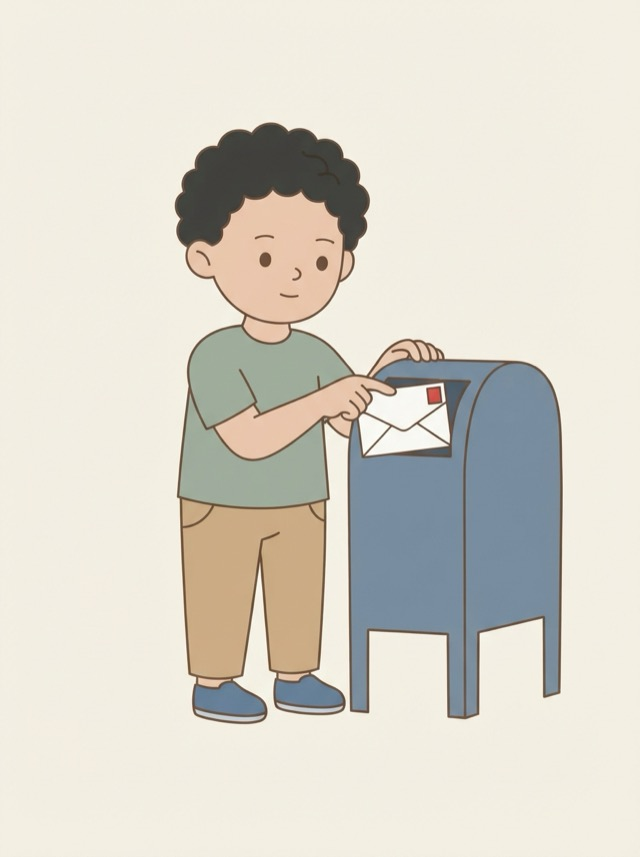
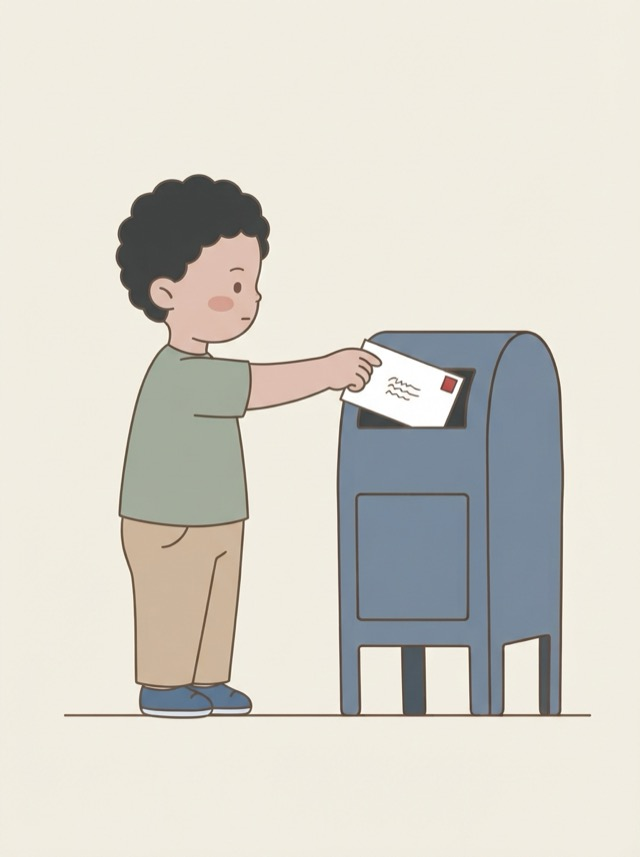
Fix the letter stamp, enlarge pictures and soften their edges
- Mailing a letter: cards 3, 4 and 5 regenerated so the stamp sits top
  right on the address side of the envelope, not on the flap. Card 4 now
  shows the child turned to the mailbox, pushing the envelope in.
- Whole-picture cards looked small with a faint rectangle around them.
  Picture edges now fade into the card, and a new optional story.zoom
  enlarges sets that have margin to spare (six of the eight paper sets).
  One value per set keeps scale constant across a story's cards.
- Prompt notes, README and CLAUDE.md updated.

Changed region(s): [[0.125, 0.1214, 0.9062, 0.8495], [0.875, 0.4854, 0.9062, 0.6068], [0.875, 0.6371, 0.9062, 0.6674]]

diff --git a/index.html b/index.html
@@ -247,7 +247,17 @@
     font-size: calc(var(--cw) * 0.42); line-height: 1;
   }
   .card .art img { width: 100%; height: 100%; object-fit: cover; pointer-events: none; }
-  .card.whole .art img { object-fit: contain; }
+  /* Sets with a paper colour: show the whole picture, as large as the story's
+     zoom allows, and fade its edges into the card so no rectangle shows. */
+  .card.whole .art { overflow: hidden; }
+  .card.whole .art img {
+    width: auto; max-width: 100%; object-fit: contain; scale: var(--zoom, 1);
+    -webkit-mask-image: linear-gradient(to right, transparent, #000 5%, #000 95%, transparent),
+      linear-gradient(to bottom, transparent, #000 4%, #000 96%, transparent);
+    mask-image: linear-gradient(to right, transparent, #000 5%, #000 95%, transparent),
+      linear-gradient(to bottom, transparent, #000 4%, #000 96%, transparent);
+    -webkit-mask-composite: source-in; mask-composite: intersect;
+  }
   /* Room for two lines on every card, so pictures sit at the same height
      whether a caption wraps or not. */
   .card .cap {
@@ -499,7 +509,7 @@
 
 // Built-in copy of stories.json, used only when the file can't be fetched
 // (browsers block fetch when index.html is opened straight from disk).
-const SEED = [{"id": "brushing-teeth", "title": "Brushing teeth", "gradeBand": "K-2", "reversible": false, "cover": 2, "cursor": "🦷", "grammar": ["character", "setting", "action", "ending"], "styles": ["cartoon", "emoji", "text"], "paper": {"cartoon": "#f1ede1"}, "cards": [{"text": "Put toothpaste on the brush", "emoji": "🪥", "img": "01.jpg"}, {"text": "Brush all your teeth", "emoji": "😬", "img": "02.jpg"}, {"text": "Rinse with water", "emoji": "🚰", "img": "03.jpg"}]}, {"id": "planting-a-seed", "title": "Planting a seed", "gradeBand": "K-2", "reversible": false, "cursor": "🪴", "grammar": ["character", "setting", "action", "ending"], "styles": ["cartoon", "emoji", "text"], "paper": {"cartoon": "#f1ede1"}, "cards": [{"text": "Dig a hole", "emoji": "🕳", "img": "01.jpg"}, {"text": "Drop in the seed", "emoji": "🌰", "img": "02.jpg"}, {"text": "Water the soil", "emoji": "💧", "img": "03.jpg"}, {"text": "A sprout comes up", "emoji": "🌱", "img": "04.jpg"}]}, {"id": "making-a-sandwich", "title": "Making a sandwich", "gradeBand": "3-5", "reversible": false, "cover": 3, "cursor": "🍽", "grammar": ["character", "action", "ending"], "styles": ["cartoon", "emoji", "text"], "paper": {"cartoon": "#f1ede1"}, "cards": [{"text": "Lay out two slices of bread", "emoji": "🍞", "img": "01.jpg"}, {"text": "Add cheese and lettuce", "emoji": "🧀", "img": "02.jpg"}, {"text": "Put the top slice on", "emoji": "🥪", "img": "03.jpg"}, {"text": "Eat the sandwich", "emoji": "😋", "img": "04.jpg"}]}, {"id": "mailing-a-letter", "title": "Mailing a letter", "gradeBand": "3-5", "reversible": false, "cover": 4, "cursor": "💌", "grammar": ["character", "setting", "action", "ending"], "styles": ["cartoon", "emoji", "text"], "paper": {"cartoon": "#f1ede1"}, "cards": [{"text": "Write the letter", "emoji": "✍", "img": "01.jpg"}, {"text": "Seal it in an envelope", "emoji": "✉", "img": "02.jpg"}, {"text": "Stick on a stamp", "emoji": "🏷", "img": "03.jpg"}, {"text": "Drop it in the mailbox", "emoji": "📮", "img": "04.jpg"}, {"text": "The letter arrives", "emoji": "📬", "img": "05.jpg"}]}, {"id": "kite-in-the-tree", "title": "The kite in the tree", "gradeBand": "K-5", "reversible": false, "cover": 2, "cursor": "🍃", "grammar": ["character", "setting", "problem", "feeling", "action", "ending"], "styles": ["cartoon", "emoji", "text"], "paper": {"cartoon": "#f1ede1"}, "cards": [{"text": "Flying a kite in the park", "emoji": "🪁", "img": "01.jpg"}, {"text": "The kite gets stuck in the tree", "emoji": "🌳", "img": "02.jpg"}, {"text": "Feeling sad about the kite", "emoji": "😢", "img": "03.jpg"}, {"text": "Grandparent reaches it with a rake", "emoji": "🧓", "img": "04.jpg"}, {"text": "Happy to have the kite back", "emoji": "😊", "img": "05.jpg"}]}, {"id": "puffer-fish", "title": "Puffer fish", "gradeBand": "K-2", "reversible": true, "endLabels": ["calm", "puffed"], "cursor": "💧", "grammar": ["character", "action", "ending"], "styles": ["cartoon", "emoji", "text"], "paper": {"cartoon": "#f7f2e7"}, "cards": [{"text": "Small and calm", "emoji": "🐟", "img": "01.jpg"}, {"text": "Half puffed", "emoji": "🐠", "img": "02.jpg"}, {"text": "Fully puffed, spikes out", "emoji": "🐡", "img": "03.jpg"}]}, {"id": "kettle", "title": "Kettle", "gradeBand": "3-5", "reversible": true, "endLabels": ["cold", "boiling"], "cursor": "🔥", "grammar": ["setting", "action", "ending"], "styles": ["cartoon", "emoji", "text"], "paper": {"cartoon": "#f1ede1"}, "cards": [{"text": "Cold water, no bubbles", "emoji": "🧊", "img": "01.jpg"}, {"text": "Warm water, tiny bubbles", "emoji": "🌡", "img": "02.jpg"}, {"text": "Hot water, lots of bubbles", "emoji": "♨", "img": "03.jpg"}, {"text": "Boiling, steam whistling out", "emoji": "💨", "img": "04.jpg"}]}, {"id": "storm", "title": "Storm", "gradeBand": "3-5", "reversible": true, "endLabels": ["clear", "storm"], "cursor": "☂", "grammar": ["setting", "action", "ending"], "styles": ["cartoon", "emoji", "text"], "cards": [{"text": "Clear blue sky", "emoji": "☀", "img": "01.jpg"}, {"text": "A few clouds", "emoji": "🌤", "img": "02.jpg"}, {"text": "Gray clouds cover the sky", "emoji": "☁", "img": "03.jpg"}, {"text": "Rain is falling", "emoji": "🌧", "img": "04.jpg"}, {"text": "Thunder and lightning", "emoji": "⛈", "img": "05.jpg"}]}, {"id": "voice-volume", "title": "Voice volume", "gradeBand": "K-8", "reversible": true, "endLabels": ["silent", "yelling"], "cover": 4, "cursor": "🎤", "grammar": ["character", "action", "ending"], "styles": ["cartoon", "emoji", "text"], "paper": {"cartoon": "#f1ede1"}, "cards": [{"text": "Silent, no sound", "emoji": "🔇", "img": "01.jpg"}, {"text": "Whisper", "emoji": "🤫", "img": "02.jpg"}, {"text": "Talking voice", "emoji": "🗣", "img": "03.jpg"}, {"text": "Loud voice", "emoji": "📣", "img": "04.jpg"}, {"text": "Yelling voice", "emoji": "🔊", "img": "05.jpg"}]}, {"id": "small-to-large", "title": "Small to large", "gradeBand": "K-2", "reversible": true, "endLabels": ["small", "large"], "grammar": [], "styles": ["shape", "text"], "paper": {"shape": "#fdf9f1"}, "cards": [{"text": "Tiny", "img": "01.svg"}, {"text": "Small", "img": "02.svg"}, {"text": "Big", "img": "03.svg"}, {"text": "Very big", "img": "04.svg"}]}, {"id": "light-to-dark", "title": "Light to dark", "gradeBand": "K-2", "reversible": true, "endLabels": ["light", "dark"], "grammar": [], "styles": ["shape", "text"], "paper": {"shape": "#fdf9f1"}, "cards": [{"text": "Very light", "img": "01.svg"}, {"text": "Light", "img": "02.svg"}, {"text": "Dark", "img": "03.svg"}, {"text": "Very dark", "img": "04.svg"}]}, {"id": "low-to-high", "title": "Low to high", "gradeBand": "K-2", "reversible": true, "endLabels": ["low", "high"], "grammar": [], "styles": ["shape", "text"], "paper": {"shape": "#fdf9f1"}, "cards": [{"text": "Low", "img": "01.svg"}, {"text": "In the middle", "img": "02.svg"}, {"text": "High", "img": "03.svg"}]}, {"id": "filling-up", "title": "Filling up", "gradeBand": "K-2", "reversible": true, "endLabels": ["empty", "full"], "grammar": [], "styles": ["shape", "text"], "paper": {"shape": "#fdf9f1"}, "cards": [{"text": "None filled", "img": "01.svg"}, {"text": "One filled", "img": "02.svg"}, {"text": "Two filled", "img": "03.svg"}, {"text": "Three filled", "img": "04.svg"}, {"text": "All filled", "img": "05.svg"}]}, {"id": "thin-to-thick", "title": "Thin to thick", "gradeBand": "K-2", "reversible": true, "endLabels": ["thin", "thick"], "grammar": [], "styles": ["shape", "text"], "paper": {"shape": "#fdf9f1"}, "cards": [{"text": "Very thin", "img": "01.svg"}, {"text": "Thin", "img": "02.svg"}, {"text": "Thick", "img": "03.svg"}, {"text": "Very thick", "img": "04.svg"}]}, {"id": "few-to-many", "title": "Few to many", "gradeBand": "K-2", "reversible": true, "endLabels": ["few", "many"], "grammar": [], "styles": ["shape", "text"], "paper": {"shape": "#fdf9f1"}, "cards": [{"text": "One dot", "img": "01.svg"}, {"text": "Three dots", "img": "02.svg"}, {"text": "Six dots", "img": "03.svg"}, {"text": "Ten dots", "img": "04.svg"}]}, {"id": "left-to-right", "title": "Left to right", "gradeBand": "K-2", "reversible": true, "endLabels": ["left", "right"], "grammar": [], "styles": ["shape", "text"], "paper": {"shape": "#fdf9f1"}, "cards": [{"text": "On the left", "img": "01.svg"}, {"text": "In the middle", "img": "02.svg"}, {"text": "On the right", "img": "03.svg"}]}, {"id": "short-to-tall", "title": "Short to tall", "gradeBand": "K-2", "reversible": true, "endLabels": ["short", "tall"], "grammar": [], "styles": ["shape", "text"], "paper": {"shape": "#fdf9f1"}, "cards": [{"text": "Very short", "img": "01.svg"}, {"text": "Short", "img": "02.svg"}, {"text": "Tall", "img": "03.svg"}, {"text": "Very tall", "img": "04.svg"}]}];// @seed
+const SEED = [{"id": "brushing-teeth", "title": "Brushing teeth", "gradeBand": "K-2", "reversible": false, "cover": 2, "cursor": "🦷", "grammar": ["character", "setting", "action", "ending"], "styles": ["cartoon", "emoji", "text"], "paper": {"cartoon": "#f1ede1"}, "zoom": {"cartoon": 1.25}, "cards": [{"text": "Put toothpaste on the brush", "emoji": "🪥", "img": "01.jpg"}, {"text": "Brush all your teeth", "emoji": "😬", "img": "02.jpg"}, {"text": "Rinse with water", "emoji": "🚰", "img": "03.jpg"}]}, {"id": "planting-a-seed", "title": "Planting a seed", "gradeBand": "K-2", "reversible": false, "cursor": "🪴", "grammar": ["character", "setting", "action", "ending"], "styles": ["cartoon", "emoji", "text"], "paper": {"cartoon": "#f1ede1"}, "zoom": {"cartoon": 1.3}, "cards": [{"text": "Dig a hole", "emoji": "🕳", "img": "01.jpg"}, {"text": "Drop in the seed", "emoji": "🌰", "img": "02.jpg"}, {"text": "Water the soil", "emoji": "💧", "img": "03.jpg"}, {"text": "A sprout comes up", "emoji": "🌱", "img": "04.jpg"}]}, {"id": "making-a-sandwich", "title": "Making a sandwich", "gradeBand": "3-5", "reversible": false, "cover": 3, "cursor": "🍽", "grammar": ["character", "action", "ending"], "styles": ["cartoon", "emoji", "text"], "paper": {"cartoon": "#f1ede1"}, "zoom": {"cartoon": 1.4}, "cards": [{"text": "Lay out two slices of bread", "emoji": "🍞", "img": "01.jpg"}, {"text": "Add cheese and lettuce", "emoji": "🧀", "img": "02.jpg"}, {"text": "Put the top slice on", "emoji": "🥪", "img": "03.jpg"}, {"text": "Eat the sandwich", "emoji": "😋", "img": "04.jpg"}]}, {"id": "mailing-a-letter", "title": "Mailing a letter", "gradeBand": "3-5", "reversible": false, "cover": 4, "cursor": "💌", "grammar": ["character", "setting", "action", "ending"], "styles": ["cartoon", "emoji", "text"], "paper": {"cartoon": "#f1ede1"}, "cards": [{"text": "Write the letter", "emoji": "✍", "img": "01.jpg"}, {"text": "Seal it in an envelope", "emoji": "✉", "img": "02.jpg"}, {"text": "Stick on a stamp", "emoji": "🏷", "img": "03.jpg"}, {"text": "Drop it in the mailbox", "emoji": "📮", "img": "04.jpg"}, {"text": "The letter arrives", "emoji": "📬", "img": "05.jpg"}]}, {"id": "kite-in-the-tree", "title": "The kite in the tree", "gradeBand": "K-5", "reversible": false, "cover": 2, "cursor": "🍃", "grammar": ["character", "setting", "problem", "feeling", "action", "ending"], "styles": ["cartoon", "emoji", "text"], "paper": {"cartoon": "#f1ede1"}, "cards": [{"text": "Flying a kite in the park", "emoji": "🪁", "img": "01.jpg"}, {"text": "The kite gets stuck in the tree", "emoji": "🌳", "img": "02.jpg"}, {"text": "Feeling sad about the kite", "emoji": "😢", "img": "03.jpg"}, {"text": "Grandparent reaches it with a rake", "emoji": "🧓", "img": "04.jpg"}, {"text": "Happy to have the kite back", "emoji": "😊", "img": "05.jpg"}]}, {"id": "puffer-fish", "title": "Puffer fish", "gradeBand": "K-2", "reversible": true, "endLabels": ["calm", "puffed"], "cursor": "💧", "grammar": ["character", "action", "ending"], "styles": ["cartoon", "emoji", "text"], "paper": {"cartoon": "#f7f2e7"}, "zoom": {"cartoon": 1.18}, "cards": [{"text": "Small and calm", "emoji": "🐟", "img": "01.jpg"}, {"text": "Half puffed", "emoji": "🐠", "img": "02.jpg"}, {"text": "Fully puffed, spikes out", "emoji": "🐡", "img": "03.jpg"}]}, {"id": "kettle", "title": "Kettle", "gradeBand": "3-5", "reversible": true, "endLabels": ["cold", "boiling"], "cursor": "🔥", "grammar": ["setting", "action", "ending"], "styles": ["cartoon", "emoji", "text"], "paper": {"cartoon": "#f1ede1"}, "zoom": {"cartoon": 1.12}, "cards": [{"text": "Cold water, no bubbles", "emoji": "🧊", "img": "01.jpg"}, {"text": "Warm water, tiny bubbles", "emoji": "🌡", "img": "02.jpg"}, {"text": "Hot water, lots of bubbles", "emoji": "♨", "img": "03.jpg"}, {"text": "Boiling, steam whistling out", "emoji": "💨", "img": "04.jpg"}]}, {"id": "storm", "title": "Storm", "gradeBand": "3-5", "reversible": true, "endLabels": ["clear", "storm"], "cursor": "☂", "grammar": ["setting", "action", "ending"], "styles": ["cartoon", "emoji", "text"], "cards": [{"text": "Clear blue sky", "emoji": "☀", "img": "01.jpg"}, {"text": "A few clouds", "emoji": "🌤", "img": "02.jpg"}, {"text": "Gray clouds cover the sky", "emoji": "☁", "img": "03.jpg"}, {"text": "Rain is falling", "emoji": "🌧", "img": "04.jpg"}, {"text": "Thunder and lightning", "emoji": "⛈", "img": "05.jpg"}]}, {"id": "voice-volume", "title": "Voice volume", "gradeBand": "K-8", "reversible": true, "endLabels": ["silent", "yelling"], "cover": 4, "cursor": "🎤", "grammar": ["character", "action", "ending"], "styles": ["cartoon", "emoji", "text"], "paper": {"cartoon": "#f1ede1"}, "zoom": {"cartoon": 1.08}, "cards": [{"text": "Silent, no sound", "emoji": "🔇", "img": "01.jpg"}, {"text": "Whisper", "emoji": "🤫", "img": "02.jpg"}, {"text": "Talking voice", "emoji": "🗣", "img": "03.jpg"}, {"text": "Loud voice", "emoji": "📣", "img": "04.jpg"}, {"text": "Yelling voice", "emoji": "🔊", "img": "05.jpg"}]}, {"id": "small-to-large", "title": "Small to large", "gradeBand": "K-2", "reversible": true, "endLabels": ["small", "large"], "grammar": [], "styles": ["shape", "text"], "paper": {"shape": "#fdf9f1"}, "cards": [{"text": "Tiny", "img": "01.svg"}, {"text": "Small", "img": "02.svg"}, {"text": "Big", "img": "03.svg"}, {"text": "Very big", "img": "04.svg"}]}, {"id": "light-to-dark", "title": "Light to dark", "gradeBand": "K-2", "reversible": true, "endLabels": ["light", "dark"], "grammar": [], "styles": ["shape", "text"], "paper": {"shape": "#fdf9f1"}, "cards": [{"text": "Very light", "img": "01.svg"}, {"text": "Light", "img": "02.svg"}, {"text": "Dark", "img": "03.svg"}, {"text": "Very dark", "img": "04.svg"}]}, {"id": "low-to-high", "title": "Low to high", "gradeBand": "K-2", "reversible": true, "endLabels": ["low", "high"], "grammar": [], "styles": ["shape", "text"], "paper": {"shape": "#fdf9f1"}, "cards": [{"text": "Low", "img": "01.svg"}, {"text": "In the middle", "img": "02.svg"}, {"text": "High", "img": "03.svg"}]}, {"id": "filling-up", "title": "Filling up", "gradeBand": "K-2", "reversible": true, "endLabels": ["empty", "full"], "grammar": [], "styles": ["shape", "text"], "paper": {"shape": "#fdf9f1"}, "cards": [{"text": "None filled", "img": "01.svg"}, {"text": "One filled", "img": "02.svg"}, {"text": "Two filled", "img": "03.svg"}, {"text": "Three filled", "img": "04.svg"}, {"text": "All filled", "img": "05.svg"}]}, {"id": "thin-to-thick", "title": "Thin to thick", "gradeBand": "K-2", "reversible": true, "endLabels": ["thin", "thick"], "grammar": [], "styles": ["shape", "text"], "paper": {"shape": "#fdf9f1"}, "cards": [{"text": "Very thin", "img": "01.svg"}, {"text": "Thin", "img": "02.svg"}, {"text": "Thick", "img": "03.svg"}, {"text": "Very thick", "img": "04.svg"}]}, {"id": "few-to-many", "title": "Few to many", "gradeBand": "K-2", "reversible": true, "endLabels": ["few", "many"], "grammar": [], "styles": ["shape", "text"], "paper": {"shape": "#fdf9f1"}, "cards": [{"text": "One dot", "img": "01.svg"}, {"text": "Three dots", "img": "02.svg"}, {"text": "Six dots", "img": "03.svg"}, {"text": "Ten dots", "img": "04.svg"}]}, {"id": "left-to-right", "title": "Left to right", "gradeBand": "K-2", "reversible": true, "endLabels": ["left", "right"], "grammar": [], "styles": ["shape", "text"], "paper": {"shape": "#fdf9f1"}, "cards": [{"text": "On the left", "img": "01.svg"}, {"text": "In the middle", "img": "02.svg"}, {"text": "On the right", "img": "03.svg"}]}, {"id": "short-to-tall", "title": "Short to tall", "gradeBand": "K-2", "reversible": true, "endLabels": ["short", "tall"], "grammar": [], "styles": ["shape", "text"], "paper": {"shape": "#fdf9f1"}, "cards": [{"text": "Very short", "img": "01.svg"}, {"text": "Short", "img": "02.svg"}, {"text": "Tall", "img": "03.svg"}, {"text": "Very tall", "img": "04.svg"}]}];// @seed
 
 const CUES = {
   independent: 'independently',
@@ -778,6 +788,11 @@ function buildCard(story, idx, style, captions) {
       card.style.background = paper;
       // The paper fills any gap, so show the whole picture instead of trimming it.
       card.classList.add('whole');
+      // Optional story.zoom[style]: how far the picture can grow before its
+      // drawing would touch the edge. One value per set, so scale never
+      // differs between the cards of a story.
+      const zoom = Number(story.zoom && story.zoom[style]);
+      if (zoom > 1 && zoom <= 2) card.style.setProperty('--zoom', zoom);
       card.style.color = (r * 299 + g * 587 + b * 114) / 1000 > 140 ? '#3a2f25' : '#efe6d6';
     }
   } else {

diff --git a/image-prompts.md b/image-prompts.md
@@ -172,13 +172,36 @@ Same plate, same table-top view in cards 1 to 3.
    or words. No envelope in the picture.
 2. `[ANCHOR] [STYLE]` The child, waist up, presses the flap of a white
    envelope closed with both hands. The envelope has no stamp.
-3. `[ANCHOR] [STYLE]` The child, waist up, holds the sealed envelope in one
-   hand and presses a small red stamp onto its top corner with the other.
-4. `[ANCHOR] [STYLE]` The child stands beside a blue street mailbox and
-   pushes the stamped envelope into its slot. The envelope is half in.
-5. `[STYLE]` A grey-haired grandparent stands in an open doorway holding
-   the same envelope with the red stamp, now opened, and reads the sheet of
-   paper from inside it with a smile. The child is not in this picture.
+Cards 3, 4 and 5 carry this ENVELOPE block so the stamp is on the address
+side, not on the flap:
+
+```
+We see the FRONT of the envelope, the address side: a plain white rectangle
+with NO triangular flap and NO diagonal fold lines. In the middle are three
+short wavy scribble lines standing in for an address (no real letters). The
+small red square stamp is in the top right corner as we look at it. Exactly
+one envelope, exactly one stamp.
+```
+
+3. `[ANCHOR] [STYLE] [ENVELOPE]` The child, waist up, holds the envelope in
+   front of their chest with one hand and presses one finger of the other
+   on the stamp.
+4. `[ANCHOR] [STYLE] [ENVELOPE]` A blue street mailbox on the right with a
+   wide dark slot near the top of its front. The child stands on the left,
+   turned towards it, one arm stretched out, pushing the envelope into the
+   slot. The envelope is half in.
+5. `[STYLE] [ENVELOPE]` A grey-haired grandparent stands in an open doorway
+   holding the same envelope, its top edge torn open, and reads the sheet
+   of paper from inside it with a smile. The child is not in this picture.
+
+Redone 2026-11-17: the first set had the stamp on the flap side. Card 4
+needed four tries. "The envelope has no other lines on it at all: no flap,
+no triangle, no diagonal lines, no folds" removed the flap. Asking for the
+same picture "again" with the envelope further in changed almost nothing;
+asking for "a different composition" with the child turned towards the
+mailbox and an arm stretched out is what made it read as posting. Gemini
+would not draw the envelope level and half hidden in the slot. Card 2
+still shows the back, which is right for sealing.
 
 ---
 

diff --git a/README.md b/README.md
@@ -90,7 +90,8 @@ A JSON array of stories. Array order of `cards` is the forward order.
 | `reversible` | `true` if the story also makes sense backwards. Needs at least 3 cards. |
 | `endLabels` | Reversible stories only: `[startLabel, endLabel]` for the direction buttons. |
 | `styles` | Which styles the setup screen offers. `emoji` and `text` are built in; any other name (`cartoon`, `realistic`, `shape`…) is an image folder. |
-| `paper` | Optional. Background color of an image set, per style: `{"cartoon": "#f7f2e7"}`. The card takes that color so the caption strip blends into the picture in light and dark mode. |
+| `paper` | Optional. Background color of an image set, per style: `{"cartoon": "#f7f2e7"}`. The card takes that color so the caption strip blends into the picture in light and dark mode. A set with a `paper` color is shown whole, never trimmed, with its edges faded into the card. |
+| `zoom` | Optional. How much to enlarge a `paper` image set on the card, per style: `{"cartoon": 1.3}` (1 to 2). Use it when every picture in the set has empty margin all round; pick the largest value that keeps every card's drawing inside the frame. One value per set, so scale never differs between cards. |
 | `cover` | Optional. Card number (from 1) shown as the story's picture on the setup screen. Defaults to the last card. |
 | `cursor` | Optional. One emoji used as the mouse pointer while the story is played (for example `"💧"`). Decoration only; the setup screen can turn it off. |
 | `grammar` | Optional. Story grammar parts offered in the retell step, from `character`, `setting`, `problem`, `feeling`, `action`, `ending`. Leave it out to offer all six; use `[]` for none. List only parts the story really has. |

diff --git a/CLAUDE.md b/CLAUDE.md
@@ -79,7 +79,11 @@ story = {
   paper colour show the whole picture (contain);
   sets without one fill the card and are trimmed
   (cover), so only full-scene sets like storm
-  should go without.
+  should go without. Picture edges fade into
+  the card. Optional story.zoom = { <style>: n }
+  (1 to 2) enlarges a paper set that has margin
+  to spare: one value per set, so scale stays
+  constant across its cards.
 - Generated image sets (puffer-fish/cartoon is
   the first): make each card as an edit of the
   previous one in the same chat, trim all images
